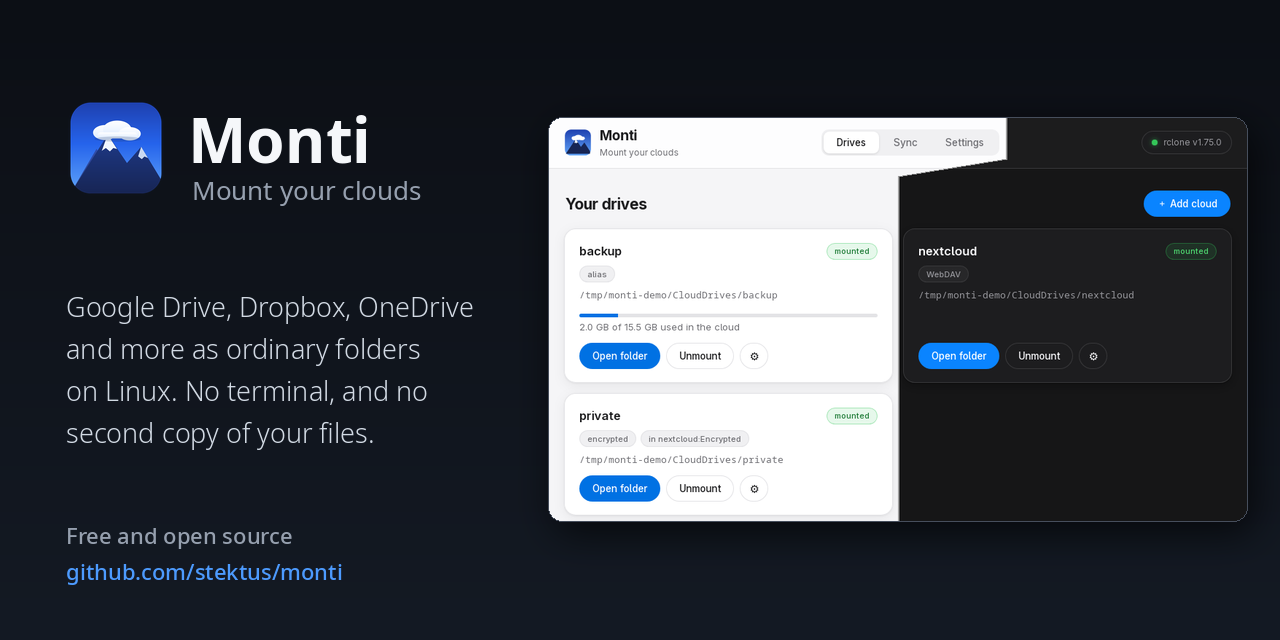
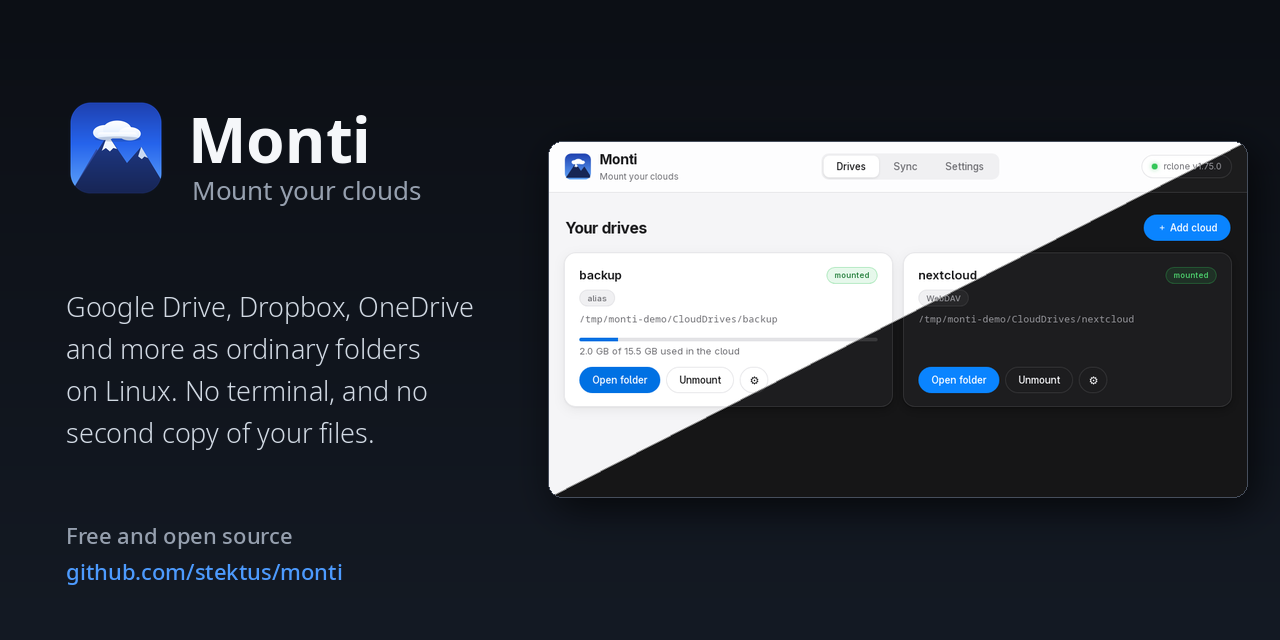
v0.7.1: paths the right way round, and a header that shows both themes
The fix is one line of drawing, but it is on every card of every install:
a mount path was rendered with its leading slash moved to the end.

The header picture is now the window cut corner to corner — light above the
diagonal, dark below it, one build either way.

Changed region(s): [[0.4062, 0.1562, 0.9688, 0.8125]]

diff --git a/README.md b/README.md
@@ -219,7 +219,7 @@ To get it in the application menu, save this as
 Type=Application
 Name=Monti
 Comment=Mount your clouds
-Exec=/home/YOU/Applications/Monti_0.7.0_amd64.AppImage
+Exec=/home/YOU/Applications/Monti_0.7.1_amd64.AppImage
 Icon=monti
 Terminal=false
 Categories=Utility;

diff --git a/CHANGELOG.md b/CHANGELOG.md
@@ -2,7 +2,7 @@
 
 Notable changes per release. Dates are the release date.
 
-## Unreleased
+## v0.7.1 — 2026-08-11
 
 **Paths read the right way round again.** A drive card shows its folder
 truncated from the left, so the end — the part that says which folder it is —
